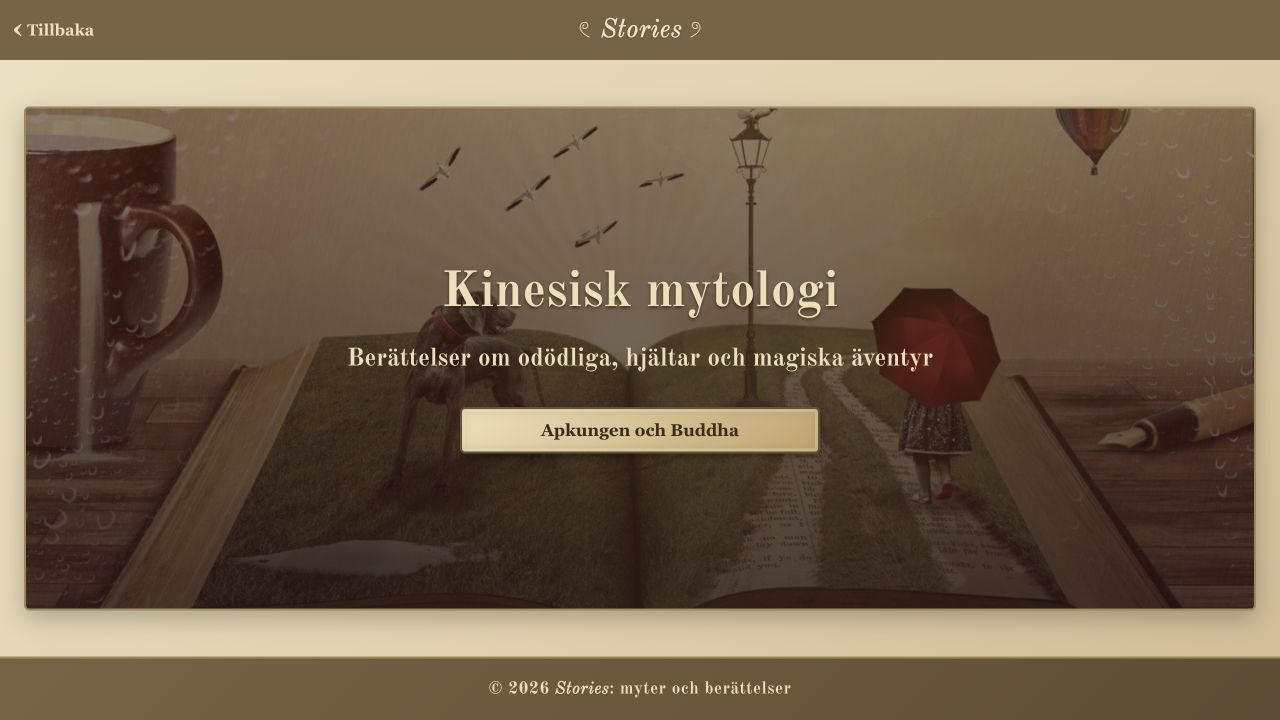
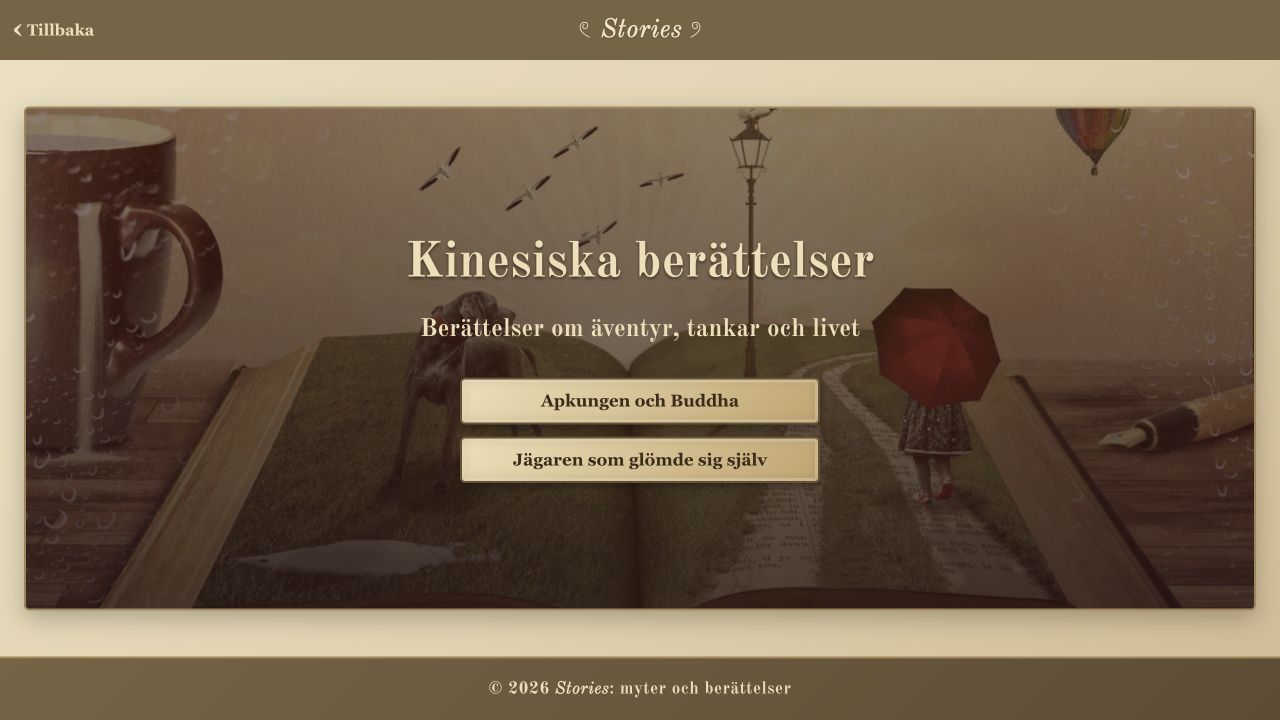
bättre kategorier för kinesiskt. fin bakgrund till kinesiskt

Changed region(s): [[0.25, 0.3361, 0.7188, 0.6722]]

diff --git a/src/pages.js b/src/pages.js
@@ -70,16 +70,6 @@ export const routes = [
     "transition": "f7-push"
   },
   {
-    "path": "/kinesisk-mytologi/",
-    "content": "<div class=\"page\" data-name=\"kinesisk-mytologi\"><div class=\"page-content\" tabindex=\"-1\"><main class=\"startsida\"><section class=\"hero hero-kina\"><div class=\"hero-text\"><h1>Kinesisk mytologi</h1><p>Berättelser om odödliga, hjältar och magiska äventyr</p><nav class=\"story-choices\" aria-label=\"Berättelser i kinesisk mytologi\"><a class=\"pergament-knapp\" href=\"/sun-wukong/\">Apkungen och Buddha</a></nav></div></section></main></div></div>",
-    "options": {
-      "props": {
-        "title": "Kinesisk mytologi"
-      }
-    },
-    "transition": "f7-push"
-  },
-  {
     "path": "/sun-wukong/",
     "content": "<div class=\"page story-page\" data-name=\"sun-wukong\"><div class=\"page-content\" tabindex=\"-1\"><main><article class=\"pergament-text\"><h1>Apkungen och Buddha</h1>\n<p>Apkungen <strong>Sun Wukong satt mitt i Buddhas öppna handflata</strong>, med benen uppdragna och sin stav bredvid sig. Buddhas fingrar reste sig runt honom.</p>\n<p>Han hade ställt till ett väldigt bråk i himlen och påstod att han själv borde få vara härskare över hela himlen.</p>\n<p>Buddha hade erbjudit honom en tävling:</p>\n<p>— Om du kan ta dig ut ur min hand har du vunnit.</p>\n<p>Apkungen såg sig omkring. Han satt ju redan i handen. Allt han behövde göra var att hoppa över kanten.</p>\n<p>Han skrattade.</p>\n<p>— Du borde ha valt något svårare.</p>\n<p>Han reste sig i handflatan, stoppade undan staven och tog sats.</p>\n<p>Sedan hoppade han.</p>\n<p>Ett väldigt språng, långt ut genom himlen.</p>\n<p>Åtminstone kändes det så. Moln svepte förbi, vinden ven, och Apkungen blev genast upptagen av hur fort han färdades.</p>\n<p><em>Redan långt bort</em>, tänkte han. <em>Men jag kan komma mycket längre.</em></p>\n<p>Han fortsatte framåt på sitt magiska moln. Allt omkring honom tycktes flyta förbi i blått och vitt.</p>\n<p>Han tänkte inte längre på handen han hade suttit i.</p>\n<p><em>Ingen annan kan färdas så här fort. Buddha skulle bara veta!</em></p>\n<p>Till slut urskilde han <strong>fem jättelika, rosafärgade pelare</strong> som reste sig upp i dimman.</p>\n<p>Han stannade framför dem och tittade upp. Pelarna försvann så högt ovanför honom att han inte kunde se deras toppar.</p>\n<p>— Aha, sade han. Världens yttersta gräns!</p>\n<p>Det måste det vara. Han kunde inte föreställa sig något längre bort.</p>\n<p>Apkungen gick omkring och undersökte platsen, mycket nöjd med sig själv.</p>\n<p><em>Nu har jag visat vem som är störst och bäst. Men jag behöver ett bevis.</em></p>\n<p>Han drog loss ett hårstrå, blåste på det och förvandlade det till en pensel. På den mittersta pelaren skrev han med stora bokstäver:</p>\n<p><strong>APKUNGEN VAR HÄR.</strong></p>\n<p>Han backade ett par steg och beundrade sitt arbete.</p>\n<p>Sedan kände han att han behövde kissa.</p>\n<p>Han såg sig omkring. Ingen där.</p>\n<p>Så han kissade vid foten av en annan pelare.</p>\n<p>— Så där. Två bevis, sade han nöjt.</p>\n<p>Sedan vände han tillbaka. Han for genom dimman, förbi molnen, allt fortare — och plötsligt stod han framför Buddha igen, mitt i den öppna handflatan.</p>\n<p>— Jag vann! ropade han. Jag har varit vid världens slut! Nu får jag bestämma över himlen.</p>\n<p>Buddha såg lugnt på honom.</p>\n<p>— Du har inte lämnat min hand.</p>\n<p>Apkungen stirrade.</p>\n<p>— Jo! Jag färdades hur långt som helst. Jag såg fem väldiga pelare. Jag skrev på en av dem!</p>\n<p>— Titta på mitt långfinger.</p>\n<p>Apkungen vände sig om.</p>\n<p>Där stod:</p>\n<p><strong>APKUNGEN VAR HÄR.</strong></p>\n<p>Han läste orden.</p>\n<p>Sedan läste han dem igen.</p>\n<p>Han tittade på fingret, på nästa finger och på tummen.</p>\n<p>Fem fingrar.</p>\n<p>Fem pelare.</p>\n<p>Hans mun öppnades långsamt.</p>\n<p>Hela den väldiga färden, alla moln som hade svept förbi — ändå hade han blivit kvar inom Buddhas hand.</p>\n<p>Sedan kände han lukten.</p>\n<p>Han tittade ned mot tummen.</p>\n<p>— Åh, sade Apkungen.</p>\n<p>Det blev tyst.</p>\n<p>För första gången på mycket länge hade han ingenting att skryta om.</p>\n<p>Så tog han hastigt sats för att försöka igen.</p>\n<p>Men Buddha vände handen. De fem fingrarna blev till ett berg med fem toppar, och Apkungen fångades under det. Där fick han stanna en lång tid.</p>\n<p>Så kan man förirra sig i sina egna storslagna tankar — och bli så upptagen av hur viktig och bra man är att man inte märker att man försjunkit i tankar utan förankring i verkligheten.</p></article></main></div></div>",
     "options": {
@@ -111,17 +101,7 @@ export const routes = [
   },
   {
     "path": "/kinesisk/",
-    "content": "<div class=\"page\" data-name=\"kinesisk\"><div class=\"page-content\" tabindex=\"-1\"><main class=\"startsida\"><section class=\"hero hero-kina\"><div class=\"hero-text\"><h1>Kinesiska berättelser</h1><p>Mytologi och berättelser från Kina</p><nav class=\"story-choices\" aria-label=\"Kinesiska berättelser\"><a class=\"pergament-knapp\" href=\"/kinesisk-mytologi/\">Kinesisk mytologi</a><a class=\"pergament-knapp\" href=\"/kinesiska-berattelser/\">Kinesiska berättelser</a></nav></div></section></main></div></div>",
-    "options": {
-      "props": {
-        "title": "Kinesiska berättelser"
-      }
-    },
-    "transition": "f7-push"
-  },
-  {
-    "path": "/kinesiska-berattelser/",
-    "content": "<div class=\"page\" data-name=\"kinesiska-berattelser\"><div class=\"page-content\" tabindex=\"-1\"><main class=\"startsida\"><section class=\"hero hero-kina\"><div class=\"hero-text\"><h1>Kinesiska berättelser</h1><p>Berättelser om tankar, uppmärksamhet och livet</p><nav class=\"story-choices\" aria-label=\"Kinesiska berättelser\"><a class=\"pergament-knapp\" href=\"/jagaren/\">Jägaren som glömde sig själv</a></nav></div></section></main></div></div>",
+    "content": "<div class=\"page\" data-name=\"kinesisk\"><div class=\"page-content\" tabindex=\"-1\"><main class=\"startsida\"><section class=\"hero hero-kina\"><div class=\"hero-text\"><h1>Kinesiska berättelser</h1><p>Berättelser om äventyr, tankar och livet</p><nav class=\"story-choices\" aria-label=\"Kinesiska berättelser\"><a class=\"pergament-knapp\" href=\"/sun-wukong/\">Apkungen och Buddha</a><a class=\"pergament-knapp\" href=\"/jagaren/\">Jägaren som glömde sig själv</a></nav></div></section></main></div></div>",
     "options": {
       "props": {
         "title": "Kinesiska berättelser"
@@ -138,5 +118,13 @@ export const routes = [
       }
     },
     "transition": "f7-push"
+  },
+  {
+    "path": "/kinesisk-mytologi/",
+    "redirect": "/kinesisk/"
+  },
+  {
+    "path": "/kinesiska-berattelser/",
+    "redirect": "/kinesisk/"
   }
 ];

diff --git a/src/app.js b/src/app.js
@@ -10,26 +10,24 @@ import './install.js';
 const basePath = window.location.pathname.replace(/index\.html$/, '');
 const requestedPath = window.location.hash.replace(/^#!/, '') || '/';
 const freshEntry = window.history.state?.storiesBase !== basePath;
-const initialParents = requestedPath === '/jagaren/'
-  ? ['/kinesisk/', '/kinesiska-berattelser/', requestedPath]
-  : requestedPath === '/sun-wukong/'
-    ? ['/kinesisk/', '/kinesisk-mytologi/', requestedPath]
-    : ['/kinesisk-mytologi/', '/kinesiska-berattelser/'].includes(requestedPath)
-      ? ['/kinesisk/', requestedPath]
-      : requestedPath === '/de-tva-munkarna/'
-        ? ['/zen/', requestedPath]
-        : ['/zen/', '/kinesisk/', '/grekisk/'].includes(requestedPath) ? [requestedPath]
-          : ['/sisyfos/', '/atlas/'].includes(requestedPath)
-            ? ['/grekisk/', '/fler-historier/', requestedPath]
-            : ['/midas/', '/eris/', '/fler-historier/'].includes(requestedPath)
-              ? ['/grekisk/', requestedPath] : [];
+const initialParents = ['/jagaren/', '/sun-wukong/'].includes(requestedPath)
+  ? ['/kinesisk/', requestedPath]
+  : ['/kinesisk-mytologi/', '/kinesiska-berattelser/'].includes(requestedPath)
+    ? ['/kinesisk/']
+    : requestedPath === '/de-tva-munkarna/'
+      ? ['/zen/', requestedPath]
+      : ['/zen/', '/kinesisk/', '/grekisk/'].includes(requestedPath) ? [requestedPath]
+        : ['/sisyfos/', '/atlas/'].includes(requestedPath)
+          ? ['/grekisk/', '/fler-historier/', requestedPath]
+          : ['/midas/', '/eris/', '/fler-historier/'].includes(requestedPath)
+            ? ['/grekisk/', requestedPath] : [];
 if (freshEntry) {
   window.history.replaceState({ ...window.history.state, storiesBase: basePath }, '',
     initialParents.length ? basePath : window.location.href);
 }
 
 const backButton = document.querySelector('.story-back');
-const parentRoutes = { index: null, grekisk: '/', midas: '/grekisk/', eris: '/grekisk/', sisyfos: '/fler-historier/', atlas: '/fler-historier/', 'fler-historier': '/grekisk/', kinesisk: '/', 'sun-wukong': '/kinesisk-mytologi/', 'kinesisk-mytologi': '/kinesisk/', 'kinesiska-berattelser': '/kinesisk/', jagaren: '/kinesiska-berattelser/', zen: '/', 'tva-munkar': '/zen/' };
+const parentRoutes = { index: null, grekisk: '/', midas: '/grekisk/', eris: '/grekisk/', sisyfos: '/fler-historier/', atlas: '/fler-historier/', 'fler-historier': '/grekisk/', kinesisk: '/', 'sun-wukong': '/kinesisk/', jagaren: '/kinesisk/', zen: '/', 'tva-munkar': '/zen/' };
 function updateHeader(page, transitioning) {
   const parent = parentRoutes[page.el.dataset.name];
   backButton.hidden = parent == null;
@@ -39,8 +37,6 @@ function updateHeader(page, transitioning) {
     '/': 'startsidan',
     '/zen/': 'Zenberättelser',
     '/kinesisk/': 'Kinesiska berättelser',
-    '/kinesisk-mytologi/': 'Kinesisk mytologi',
-    '/kinesiska-berattelser/': 'Kinesiska berättelser',
     '/grekisk/': 'Grekisk mytologi',
     '/fler-historier/': 'Fler historier',
   };

diff --git a/src/app.css b/src/app.css
@@ -320,10 +320,14 @@ main.startsida {
 }
 
 
-/* The Chinese collection reuses the local storybook image with a warmer tone. */
+/* Keep the sun in the desktop crop; centre the landscape on narrow screens. */
 .hero-kina {
-  --hero-image: url('/media/bild.jpg');
-  background-image: linear-gradient(rgb(55 23 22 / 55%), rgb(35 16 19 / 80%)), var(--hero-image);
+  --hero-image: url('/media/bild4.jpg');
+  background-image: linear-gradient(rgb(25 28 26 / 40%), rgb(25 28 26 / 70%)), var(--hero-image);
+  background-position: center top;
+}
+@media (max-width: 600px) {
+  .hero-kina { background-position: 55% center; }
 }
 
 /* Returning home through the brand fades out first, then fades the home view in. */

diff --git a/README.md b/README.md
@@ -100,3 +100,9 @@ De två munkarna på `#!/de-tva-munkarna/`.
 Den kinesiska samlingen (`#!/kinesisk/`) har två underkategorier:
 Kinesisk mytologi (`#!/kinesisk-mytologi/`) med Apkungen och Buddha,
 och Kinesiska berättelser (`#!/kinesiska-berattelser/`) med Jägaren som glömde sig själv (`#!/jagaren/`).
+
+Kinesiska berättelser (`#!/kinesisk/`) listar nu Apkungen och Buddha samt
+Jägaren som glömde sig själv direkt. Tidigare underkategoriadresser leder hit.
+
+Kinesiska berättelser använder `public/media/bild4.jpg` (900 × 600 px),
+med beskärning anpassad för desktop och mobil.
